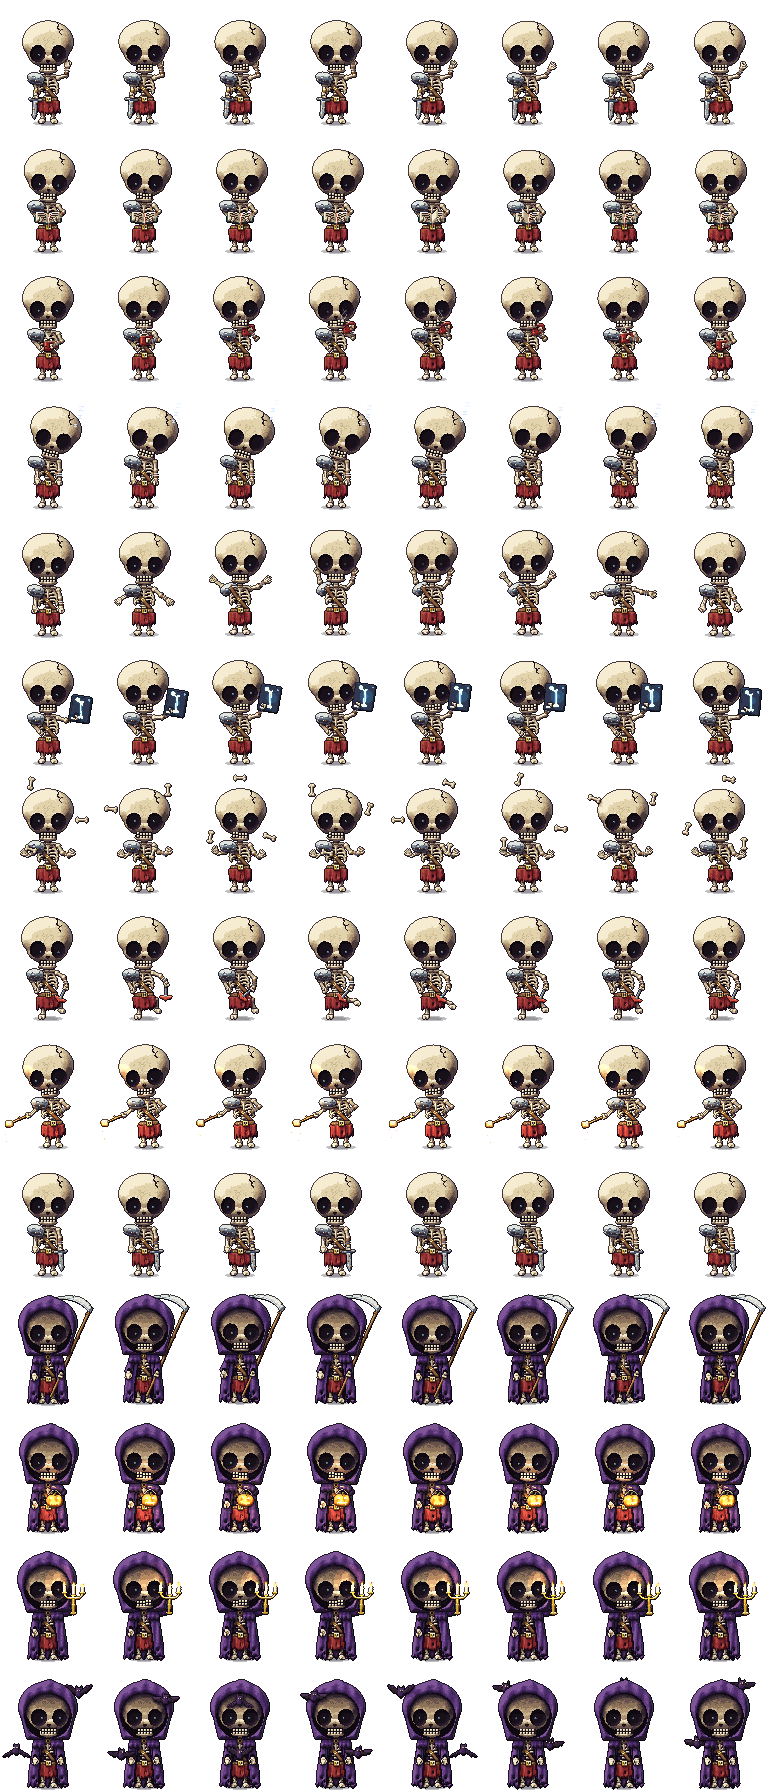
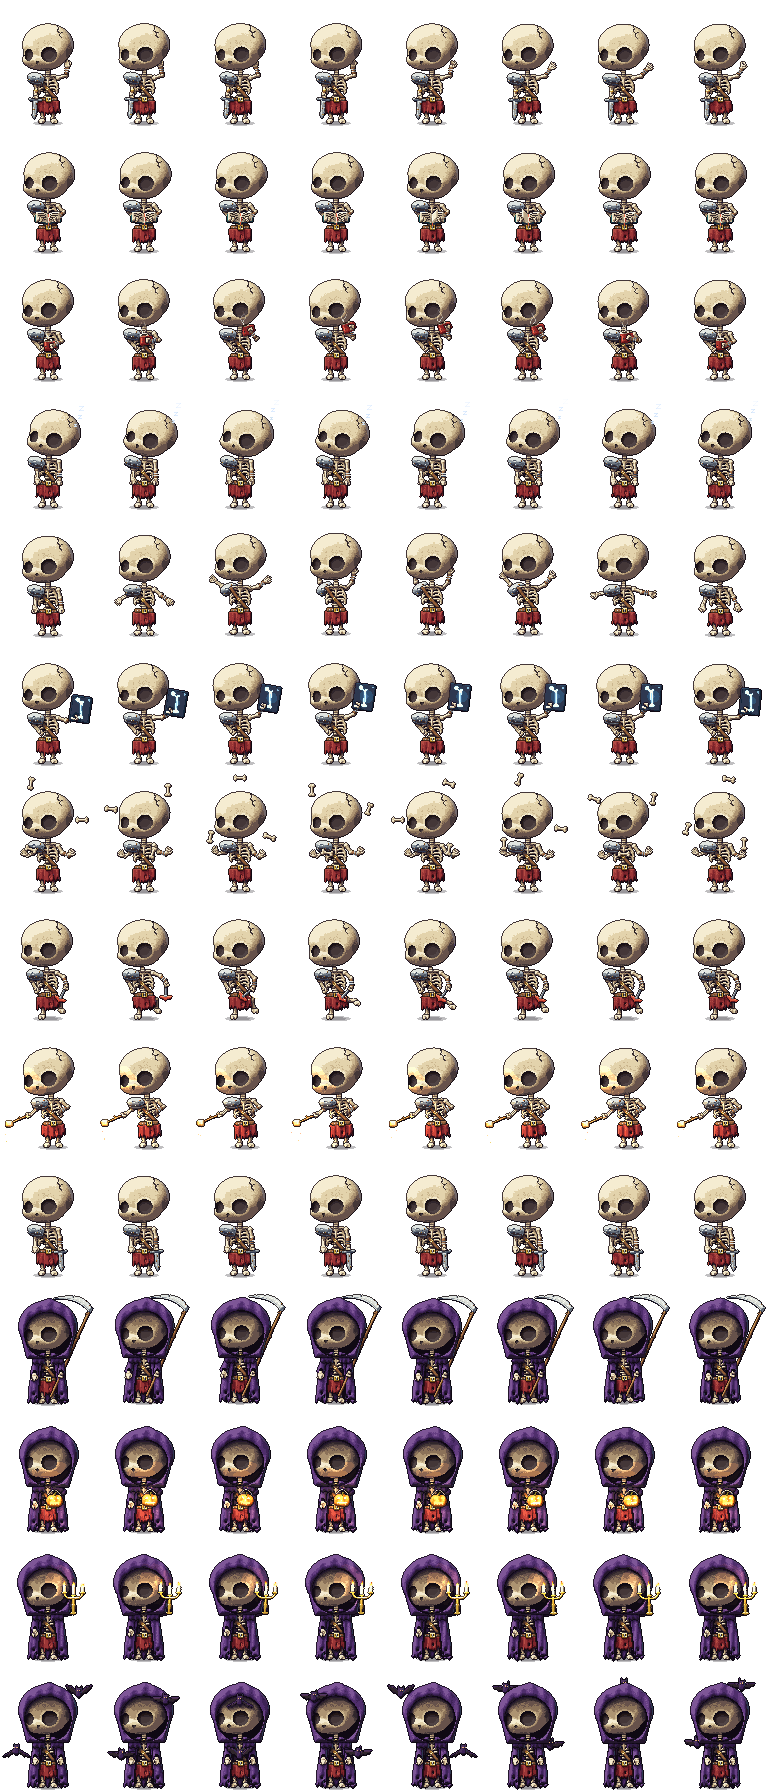
Mascote: o modelo E, sem boca (rosto três-quartos), em todas as telas
O Tales escolheu o modelo E (rosto três-quartos, sem boca nem dentes), mas o
site ainda mostrava o rosto de frente com dentes. Traz a folha e o script do
modelo E (c4f9af15) e muda o ?v= da folha para o service worker não servir a
antiga.

diff --git a/src/componentes/mascote/sprites.ts b/src/componentes/mascote/sprites.ts
@@ -6,7 +6,7 @@
 
 /** Esqueleto: public/pixel/mascote/esqueleto.png */
 export const SPRITE_ESQUELETO = {
-  src: '/pixel/mascote/esqueleto.png',
+  src: '/pixel/mascote/esqueleto.png?v=e',
   larguraQuadro: 96,
   alturaQuadro: 128,
   quadrosPorLinha: 8,

diff --git a/scripts/gerar_mascote.py b/scripts/gerar_mascote.py
@@ -1,8 +1,8 @@
 """O mascote em pixel art HD-2D (30/10/2026): o esqueleto guerreiro chibi e o gato, feitos do zero por este script.
 
 Nada é baixado nem gerado por IA: cada pixel sai das formas (campos de distância), da luz calculada e das paletas
-abaixo. O personagem é original: crânio grande e redondo com rachadura, órbitas ovais enormes e baixas, dentes
-retos, expressão séria; corpo pequeno com costelas e coluna; armadura leve (ombreira de aço amassada com correia,
+abaixo. O personagem é original: crânio grande e redondo com rachadura, órbitas ovais enormes e baixas, sem dentes à mostra (crânio de peça
+só), expressão séria; corpo pequeno com costelas e coluna; armadura leve (ombreira de aço amassada com correia,
 cinto com fivela, saiote de pano vermelho esfarrapado, braçadeira de couro). Nos comportamentos de Halloween ele
 veste por cima uma capa roxa com capuz.
 
@@ -20,6 +20,8 @@ import math
 import sys
 from dataclasses import dataclass, field, replace
 from pathlib import Path
+
+import os
 
 import numpy as np
 from PIL import Image
@@ -254,7 +256,7 @@ MATS: dict[str, Mat] = {
     "osso": Mat(rampa("#2a2030", "#45343f", "#67524b", "#8b725a", "#ae9472", "#cbb68e", "#e3d3ac", "#f6edd2"), hx("#1a1118"), rim=0.5, tex=0.07),
     "dente": Mat(rampa("#4a3a42", "#8d7a66", "#c9b896", "#e9dcbb", "#fbf4e0"), hx("#1a1118"), rim=0.2, tex=0.03),
     "interior": Mat(rampa("#0e0910", "#170f19", "#211723", "#2e2129", "#3c2c30"), hx("#0c070c"), rim=0.0, amb=0.45, kd=0.5),
-    "orbita": Mat(rampa("#040206", "#08050b", "#0e0912", "#16101a", "#211823", "#30232c"), hx("#0c070c"), rim=0.0, amb=0.2, kd=0.8, luz_pontual=0.2),
+    "orbita": Mat(rampa("#0a0709", "#151012", "#221b1d", "#312829", "#403637", "#4f4446"), hx("#0c070c"), rim=0.0, amb=0.2, kd=0.8, luz_pontual=0.2),
     "brilho": Mat(rampa("#26343e", "#4d6a78", "#86a8b4", "#c8dde0"), TINTA, emite=True, bloom=0.0),
     # armadura
     "aco": Mat(rampa("#16161e", "#262833", "#3a3e4a", "#535a66", "#717a84", "#939ca3", "#b8c0c2", "#e2e6e2"), hx("#0e0d14"), rim=0.55, tex=0.02, brilho=0.9),
@@ -262,7 +264,9 @@ MATS: dict[str, Mat] = {
     "couro": Mat(rampa("#1a0f0c", "#2c1a13", "#43281b", "#5c3824", "#784a2e", "#93603a", "#ad7a4c"), hx("#120a08"), rim=0.35, tex=0.08),
     "latao": Mat(rampa("#2a1a08", "#4f3410", "#7a5418", "#a87a26", "#d2a83c", "#f0d670", "#fff4b8"), hx("#170e05"), rim=0.3, brilho=1.0),
     "pano": Mat(rampa("#1a080c", "#2e0d14", "#47121c", "#621a24", "#7e252c", "#9a3536", "#b44c44"), hx("#12060a"), rim=0.4, tex=0.06),
-    "capa": Mat(rampa("#0d0716", "#170d24", "#221333", "#2f1a45", "#3e2358", "#4f2e6c", "#653e82", "#7f5798"), hx("#08040e"), rim=0.55, tex=0.05, luz_pontual=0.55),
+    "capa": (Mat(rampa("#08080b", "#0f0f14", "#17171e", "#202029", "#2a2a35", "#363642", "#454552", "#585866"), hx("#050507"), rim=0.55, tex=0.05, luz_pontual=0.55)
+             if os.environ.get("CAPA") == "escura" else
+             Mat(rampa("#0d0716", "#170d24", "#221333", "#2f1a45", "#3e2358", "#4f2e6c", "#653e82", "#7f5798"), hx("#08040e"), rim=0.55, tex=0.05, luz_pontual=0.55)),
     "forro": Mat(rampa("#07040b", "#0d0812", "#150d1c", "#1e1428"), hx("#05030a"), rim=0.0, amb=0.5, kd=0.4, luz_pontual=0.4),
     # objetos
     "madeira": Mat(rampa("#1c100a", "#311c10", "#4c2e18", "#6a4322", "#8a5c30", "#a87642", "#c49358"), hx("#120a06"), rim=0.3, tex=0.1),
@@ -583,7 +587,7 @@ def montar(p: Pose) -> Rig:
     pesc = tr.p(0, -28.4 - p.resp * 0.5)
     piv = (pesc[0] + p.cab_dx, pesc[1] + p.cab_dy)
     ang_c = p.inclina + p.cab
-    cab = Quadro2D(Quadro2D(piv, ang_c).p(0, -24), ang_c)
+    cab = Quadro2D(Quadro2D(piv, ang_c).p(0, DESCE_CRANIO), ang_c)
     r = Rig(raiz, P, tr, cab)
     for lado, s, (a1, a2, a3, _) in (("e", -1, p.be), ("d", 1, p.bd)):
         om = tr.p(s * 10.2, -22.8 - p.resp * 0.7)
@@ -677,69 +681,106 @@ def perna(t: Tela, r: Rig, p: Pose, lado: str):
         t.pinta(capsula((x, c[1] + 0.2), (x + s * 0.25, c[1] + 1.9), 0.55), "osso", 2.7, R=0.7, pid=f"dedo_pe_{lado}", semente=26 + k)
 
 
+# Modelo do rosto (30/10/2026, o Tales escolhe entre modelos): ROSTO=<nome> python3 scripts/gerar_mascote.py
+ROSTO = os.environ.get("ROSTO", "tres_quartos")   # o Tales escolheu o "modelo E" em 31/10/2026
+DESCE_CRANIO = {"tres_quartos": -21.0, "frente_liso": -22.0, "frente_redondo": -25.0}.get(ROSTO, -26.5)
+
+
 def cranio(t: Tela, r: Rig, p: Pose, sob_capuz=False):
     q = r.cab
     uv = q.uv()
     v = p.vira
-    # calota: larga em cima, maçãs do rosto e maxila mais estreitas
+    # calota comum a todos os modelos, com a rachadura no alto à direita
     calota = elipse((0, -6.5), 25.0, 20.5)
-    rosto = elipse((0 + v * 0.8, 9.5), 17.0, 9.0)
-    macas = circulo((-14.5 + v * 1.2, 7.5), 4.0) | circulo((14.5 + v * 1.2, 7.5), 4.0)
-    f = calota.suave(rosto, 5.0).suave(macas, 2.5)
+    frente = ROSTO != "tres_quartos"
+    if ROSTO == "tres_quartos":
+        rosto = elipse((-5.5 + v * 0.8, 8.5), 19.5, 10.0)
+        f = calota.suave(rosto, 6.0)
+    elif ROSTO == "frente_liso":
+        rosto = elipse((v * 0.8, 7.5), 22.0, 11.5)
+        macas = circulo((-22.0 + v * 1.2, 11.0), 3.2) | circulo((22.0 + v * 1.2, 11.0), 3.2)
+        f = calota.suave(rosto, 5.0).suave(macas, 2.0)
+    else:
+        rosto = elipse((v * 0.8, 7.0), 23.0, 11.0)
+        rm = 1.8 if ROSTO == "frente_redondo" else 3.4
+        macas = circulo((-22.6 + v * 1.2, 12.0), rm) | circulo((22.6 + v * 1.2, 12.0), rm)
+        maxila = (caixa((0.4 + v * 1.4, 20.6), 9.0, 4.8, r=3.0) if ROSTO == "frente_redondo"
+                  else caixa((0.4 + v * 1.4, 21.4), 13.6 if ROSTO != "frente_pequeno" else 11.0, 5.6, r=3.2))
+        f = calota.suave(rosto, 5.0).suave(macas, 2.0).suave(maxila, 2.6)
     t.pinta(q.forma(f), "osso", 8.0, R=13.0, pid="cranio", uv=uv, semente=51)
-    # mandíbula pequena (peça da frente: ganha o traço da junta)
-    mand = caixa((v * 1.2, 20.6), 8.6, 3.3, r=2.6).suave(elipse((v * 1.2, 22.4), 6.0, 2.0), 1.2)
-    t.pinta(q.forma(mand), "osso", 8.3, R=3.0, pid="mandibula", uv=uv, semente=52)
-    # sombras de modelado: têmporas, abaixo das maçãs, testa mais clara
     for sx in (-1, 1):
-        t.pinta(q.forma(elipse((sx * 20.5 + v * 0.6, 3.0), 3.6, 7.5)), "osso", 0, sobre="cranio", tom=-0.13, uv=uv, semente=51, normal=False)
-        t.pinta(q.forma(elipse((sx * 11.0 + v * 1.3, 15.2), 3.4, 1.8)), "osso", 0, sobre="cranio", tom=-0.12, uv=uv, semente=51, normal=False)
+        t.pinta(q.forma(elipse((sx * 21.0 + v * 0.6, 1.0), 3.4, 7.0)), "osso", 0, sobre="cranio", tom=-0.12, uv=uv, semente=51, normal=False)
+        if ROSTO in ("frente_dentes", "frente_pequeno", "frente_brilho", "frente_redondo"):
+            t.pinta(q.forma(elipse((sx * 16.8 + v * 1.3, 17.6), 3.0, 2.6)), "osso", 0, sobre="cranio", tom=-0.16, uv=uv, semente=51, normal=False)
     t.pinta(q.forma(elipse((-7 + v, -16.0), 8.0, 5.5)), "osso", 0, sobre="cranio", tom=0.05, uv=uv, semente=51, normal=False)
-    # rachadura irregular no alto à direita, com a beira de baixo clara
     rach = [(9.5, -25.6), (10.6, -22.8), (9.4, -20.6), (12.2, -18.0), (11.6, -15.6), (13.8, -13.4)]
     t.pinta(q.forma(traco([(x + 0.7, y + 0.7) for x, y in rach], 0.5)), "osso", 0, sobre="cranio", tom=0.16, uv=uv, semente=51, normal=False)
     t.pinta(q.forma(traco(rach, 0.55)), "orbita", 0, sobre="cranio", R=-1, tom=0.25)
     t.pinta(q.forma(capsula((12.2, -18.0), (14.8, -19.4), 0.45)), "orbita", 0, sobre="cranio", R=-1, tom=0.25)
-    # órbitas: ovais enormes, afastadas e baixas, com a borda de cima reta e levemente caída para dentro (sério)
-    for sx in (-1, 1):
-        cx = sx * 10.6 + v * 2.2 + (sx * v * -0.6)
-        rx = 7.6 * (1 - 0.12 * v * sx)
-        orb = elipse((cx, 5.2), rx, 8.6, ang=sx * -6) & semiplano((0, -2.2), (-sx * 0.10, -1))
-        dente_orb = lambda X, Y, cx=cx: -0.32 * np.clip(1 - (Y - (q.o[1] - 4)) / 10.0, 0, 1)
-        t.pinta(q.forma(orb), "orbita", 8.01, R=-3.5, pid="cranio", tom=0.0, uv=uv)
-        # sobrancelha óssea: arco claro logo acima da borda
-        arco = q.forma(elipse((cx, 5.0), rx + 1.6, 9.8, ang=sx * -6) - elipse((cx, 5.6), rx + 0.2, 8.8, ang=sx * -6)) & q.forma(semiplano((0, -1.2), (0, 1)))
-        t.pinta(arco, "osso", 0, sobre="cranio", tom=0.1, uv=uv, semente=51, normal=False)
-        # brilho fraco e frio, quase apagado, no fundo
-        if p.brilho > 0:
-            gx = cx + sx * -1.3 + v * 1.2 + p.olhar[0]
-            gy = 6.4 + p.olhar[1]
-            t.pinta(q.forma(circulo((gx, gy), 1.05)), "brilho", 8.02, pid="cranio", tom=0.3 * p.brilho, sem_contorno=True)
-            t.pinta(q.forma(circulo((gx - 0.4, gy - 0.5), 0.55)), "brilho", 8.03, pid="cranio", tom=0.75 * p.brilho, sem_contorno=True)
-            gp = q.p(gx, gy)
-            t.luz(gp[0], gp[1], 2.0, "#5d7f90", 6.5, 0.6 * p.brilho)
-    # cavidade nasal pequena
-    nz = (v * 2.4, 13.4)
-    nariz = (circulo((nz[0] - 1.0, nz[1] - 0.6), 1.15) | circulo((nz[0] + 1.0, nz[1] - 0.6), 1.15)) | poligono([(nz[0] - 2.0, nz[1] - 0.4), (nz[0] + 2.0, nz[1] - 0.4), (nz[0], nz[1] + 2.0)])
-    t.pinta(q.forma(nariz), "orbita", 8.01, R=-1.2, pid="cranio", tom=0.1)
-    # boca: fileira curta e reta de dentes, fechada. Cada dente é encaixado na grade de pixels (sem serrilhado)
-    bx = v * 2.0
-    t.pinta(q.forma(caixa((bx, 19.0), 8.6, 2.9, r=1.0)), "orbita", 8.35, R=-1.0, pid="dentes_fundo", sem_contorno=True)
-    rad = math.radians(q.ang)
-    for i in range(5):
-        lx = bx - 6.0 + i * 3.0
-        cx_, cy_ = q.p(lx, 17.4)
-        cx_, cy_ = round(cx_), round(cy_)
-        dx3, dy3 = round(-math.sin(rad) * 3.0), 3
-        t.pinta(caixa((cx_, cy_), 1.0, 1.0), "dente", 8.4, R=0.9, pid="dentes", sem_contorno=True, tom=0.04 if i != 0 else -0.04)
-        t.pinta(caixa((cx_ + dx3, cy_ + dy3), 1.0, 1.0), "dente", 8.4, R=0.9, pid="dentes", sem_contorno=True, tom=-0.06 if i != 4 else -0.14)
+
+    if not frente:
+        # três-quartos para a esquerda: órbita grande com aro claro e a estreita na borda; nariz embaixo à esquerda
+        ox = v * 2.0
+        grande = elipse((0.6 + ox, 3.0), 8.0, 7.6, ang=-8)
+        t.pinta(q.forma(elipse((0.6 + ox, 3.0), 9.9, 9.4, ang=-8) - grande), "osso", 0, sobre="cranio", tom=0.12, uv=uv, semente=51, normal=False)
+        lateral = elipse((-19.6 + ox, 3.6), 4.2, 5.9, ang=6) & f
+        for orb in (grande, lateral):
+            t.pinta(q.forma(orb), "orbita", 8.01, R=-3.5, pid="cranio", tom=0.0, uv=uv)
+        t.pinta(q.forma(elipse((1.4 + ox, 4.6), 5.6, 4.8, ang=-8)), "orbita", 0, sobre="cranio", tom=0.18, normal=False)
+        t.pinta(q.forma(elipse((-19.0 + ox, 5.0), 2.4, 3.6)), "orbita", 0, sobre="cranio", tom=0.14, normal=False)
+        nz = (-11.0 + v * 2.4, 11.6)
+        nariz = poligono([(nz[0] - 2.2, nz[1] - 1.4), (nz[0] + 2.2, nz[1] - 1.4), (nz[0], nz[1] + 2.0)]).suave(circulo((nz[0], nz[1] - 0.8), 1.5), 0.6)
+        t.pinta(q.forma(nariz), "orbita", 8.01, R=-1.2, pid="cranio", tom=0.05)
+        t.pinta(q.forma(elipse((v * 1.0, 19.0), 14.0, 2.4)), "osso", 0, sobre="cranio", tom=-0.1, uv=uv, semente=51, normal=False)
+    else:
+        # de frente: órbitas ovais em pé (menores no modelo "pequeno"), nariz de duas fendas
+        rx, ry = {"frente_pequeno": (6.2, 8.0), "frente_redondo": (7.6, 7.8)}.get(ROSTO, (7.4, 9.6))
+        for sx in (-1, 1):
+            cx = sx * {"frente_pequeno": 11.4, "frente_redondo": 10.6}.get(ROSTO, 12.0) + v * 2.2
+            orb = elipse((cx, 4.6 if ROSTO == "frente_redondo" else 4.2), rx * (1 - 0.1 * v * sx), ry, ang=sx * 8)
+            if ROSTO == "frente_redondo":
+                # órbitas redondas e bem pretas, como nas referências do ceifador e do esqueleto da picareta
+                t.pinta(q.forma(orb), "orbita", 8.01, R=-3.5, pid="cranio", tom=-0.35, uv=uv)
+                continue
+            t.pinta(q.forma(orb), "orbita", 8.01, R=-3.5, pid="cranio", tom=0.0, uv=uv)
+            t.pinta(q.forma(elipse((cx + sx * 0.4, 5.6), rx * 0.68, ry * 0.69, ang=sx * 8)), "orbita", 0, sobre="cranio", tom=0.12, normal=False)
+            if ROSTO == "frente_brilho":
+                # um pontinho de luz no alto de cada órbita
+                gx, gy = cx - 2.2, 0.6
+                t.pinta(q.forma(circulo((gx, gy), 1.25)), "brilho", 8.03, pid="cranio", tom=0.9, sem_contorno=True)
+        if ROSTO == "frente_redondo":
+            # nariz pequeno em coração invertido
+            nz = (v * 2.4, 12.4)
+            nariz = (circulo((nz[0] - 1.1, nz[1] - 0.6), 1.25) | circulo((nz[0] + 1.1, nz[1] - 0.6), 1.25)) | poligono([(nz[0] - 2.3, nz[1] - 0.3), (nz[0] + 2.3, nz[1] - 0.3), (nz[0], nz[1] + 2.0)])
+            t.pinta(q.forma(nariz), "orbita", 8.01, R=-1.0, pid="cranio", tom=-0.2)
+        else:
+            for sx in (-1, 1):
+                t.pinta(q.forma(elipse((sx * 1.5 + v * 2.4, 11.4), 0.95, 2.4, ang=sx * -10)), "orbita", 8.01, R=-1.0, pid="cranio", tom=0.05)
+        if ROSTO == "frente_liso":
+            # sem dentes: só a sombra da curva de baixo do rosto
+            t.pinta(q.forma(elipse((v * 1.0, 17.8), 13.0, 2.4)), "osso", 0, sobre="cranio", tom=-0.1, uv=uv, semente=51, normal=False)
+        else:
+            # uma fileira só de dentes grandes e claros, separados por traços encaixados na grade de pixels
+            bx = 0.4 + v * 1.4
+            meia = {"frente_pequeno": 8.0, "frente_redondo": 6.6}.get(ROSTO, 10.6)
+            n = {"frente_pequeno": 5, "frente_redondo": 5}.get(ROSTO, 7)
+            passo = 2 * meia / n
+            t.pinta(q.forma(traco(bezier((bx - meia - 0.4, 18.8), (bx, 18.0), (bx + meia + 0.4, 18.8), 9), 0.55)), "orbita", 0, sobre="cranio", tom=0.2)
+            t.pinta(q.forma(traco(bezier((bx - meia + 0.2, 22.6), (bx, 24.2), (bx + meia - 0.2, 22.6), 9), 0.55)), "orbita", 0, sobre="cranio", tom=0.2)
+            t.pinta(q.forma(elipse((bx, 20.0), meia + 3.4, 5.4)), "osso", 0, sobre="cranio", tom=0.1, uv=uv, semente=51, normal=False)
+            t.pinta(q.forma(caixa((bx, 20.9), meia, 1.8, r=0.6)), "osso", 0, sobre="cranio", tom=0.26, uv=uv, semente=51, normal=False)
+            for i in range(1, n):
+                # cada traço é uma coluna de 1 pixel encaixada na grade (não some quando a cabeça inclina)
+                x = bx - meia + i * passo
+                (x0, y0), (_, y1) = q.p(x, 19.6), q.p(x, 22.4 + 0.6 * (1 - abs(i - n / 2) / (n / 2)))
+                cx_, ya, yb = round(x0) + 0.5, round(y0), round(y1)
+                t.pinta(caixa((cx_, (ya + yb) / 2 + 0.5), 0.5, max(1.0, (yb - ya) / 2)), "orbita", 8.4, R=0.3, pid="dentes", sem_contorno=True, tom=0.28)
     if sob_capuz:
         # sombra do capuz no alto do crânio
         def sombra_capuz(X, Y):
             _, vv = uv(X, Y)
             return -0.62 * np.clip((4.0 - vv) / 20.0, 0, 1) ** 0.8
         t.pinta(q.forma(semiplano((0, 6), (0, 1))), "osso", 0, sobre="cranio", tom=sombra_capuz, normal=False)
-        t.pinta(q.forma(semiplano((0, 6), (0, 1))), "osso", 0, sobre="mandibula", tom=sombra_capuz, normal=False)
 
 
 def tronco(t: Tela, r: Rig, p: Pose):
@@ -768,8 +809,8 @@ def tronco(t: Tela, r: Rig, p: Pose):
     t.pinta(q.forma(capsula((0, -23.6), (0, -12.0), 1.35, 1.0) | elipse((0, -23.0), 2.4, 1.8) | circulo((0, -11.0), 0.8)), "osso", 4.7, R=1.5, pid="esterno", uv=uv, semente=77)
     for s in (-1, 1):
         t.pinta(q.forma(traco(bezier((s * 1.8, -24.6), (s * 6.0, -26.6), (s * 10.0, -23.6), 7), 0.85)), "osso", 4.8, R=1.0, pid=f"clavicula{s}", uv=uv, semente=78)
-    # vértebras do pescoço
-    for k, y in enumerate((-27.4, -25.6)):
+    # vértebras do pescoço (aparecem entre o crânio redondo e as clavículas)
+    for k, y in enumerate((-31.0, -29.2, -27.4, -25.6)):
         t.pinta(q.forma(caixa((0, y), 1.9, 0.75, r=0.5)), "osso", 7.0, R=1.0, pid=f"cervical{k}", uv=uv, semente=79)
     # pelve (quase toda sob o cinto e o saiote)
     pel = elipse((-4.6, 0.8), 4.8, 3.6, 20).suave(elipse((4.6, 0.8), 4.8, 3.6, -20), 1.5).suave(caixa((0, 2.0), 2.4, 3.0, r=1.2), 1.0)
@@ -1599,10 +1640,13 @@ def salvar(img: Image.Image, caminho: Path) -> None:
         tmp.replace(caminho)
     else:
         tmp.unlink()
-    print(caminho.relative_to(PASTA.parents[2]), img.size, caminho.stat().st_size, "bytes")
+    print(caminho.relative_to(PASTA.parents[2]) if caminho.is_relative_to(PASTA.parents[2]) else caminho, img.size, caminho.stat().st_size, "bytes")
 
 
 def main() -> None:
+    if os.environ.get("SAIDA"):
+        salvar(folha_esqueleto(), Path(os.environ["SAIDA"]))
+        return
     salvar(folha_esqueleto(), PASTA / "esqueleto.png")
     salvar(folha_gato(), PASTA / "gato.png")
     if "--previa" in sys.argv:

diff --git a/.claude/skills/arte-hd2d/SKILL.md b/.claude/skills/arte-hd2d/SKILL.md
@@ -58,7 +58,12 @@ cinto e pano vermelho), em pixel art HD-2D: `scripts/gerar_mascote.py` gera `pub
 `src/componentes/mascote/sprites.ts`. Use `<Mascote />` em qualquer tela: `comportamento` fixo, `fantasia`
 (`halloween` em outubro, automático: manto de capuz, foice, lanterna de abóbora, castiçal e morcegos), `falar={false}`,
 `interativo={false}` (dentro de link). Falas em `falas.ts`. O Tales recusou: touca, sorriso/expressão feliz, bochecha
-rosada, esqueleto realista grande, versão vetorial "chapada" e sorvete. Comportamento novo = nova linha no script +
+rosada, esqueleto realista grande, versão vetorial "chapada" (também a de traço limpo, em 31/10/2026), sorvete e
+rosto de frente com dentes. Rosto escolhido em 31/10/2026 ("modelo E, sem boca"): três-quartos para a esquerda, sem boca
+nem dentes, órbita grande com aro de osso claro e a outra estreita na borda, fundo cinza-escuro sem brilho, nariz
+pequeno embaixo à esquerda (`ROSTO=tres_quartos`, o padrão do script; os outros modelos ficam no script só para
+comparação). Ao trocar a folha, mude o `?v=` em `sprites.ts` (o service worker guarda a arte antiga). Antes de mudar o
+rosto, mande modelos lado a lado. Comportamento novo = nova linha no script +
 `sprites.ts` + 8 a 10 falas. No cenário, o mascote e o gato recebem a luz da hora do dia (filtros em `InicioHd.css`).
 
 ## Montar na tela
